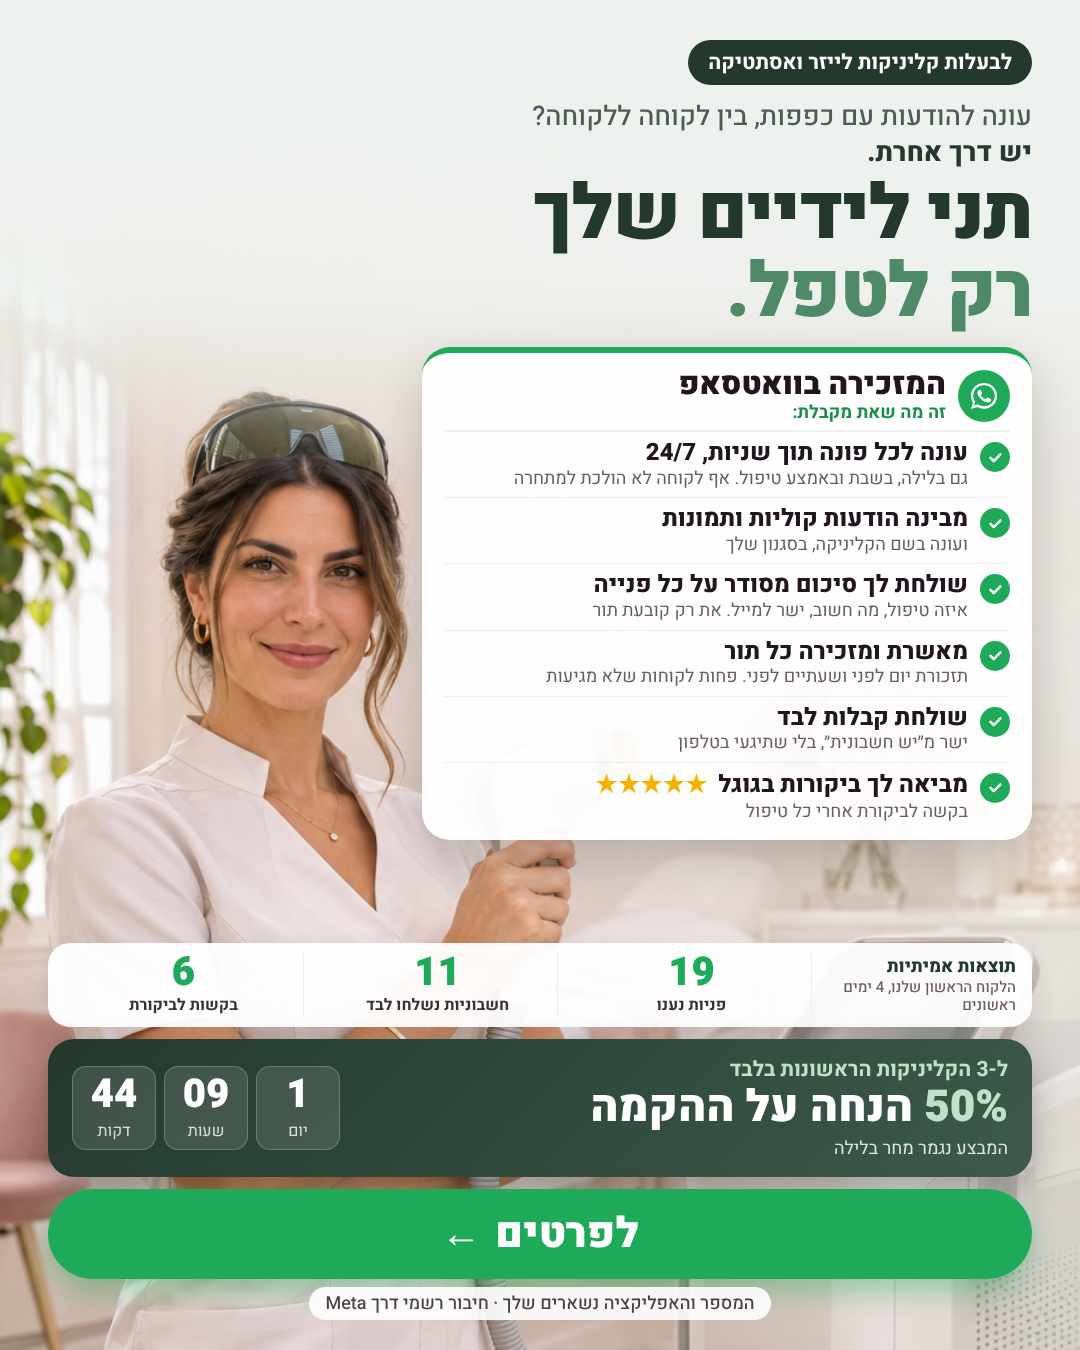
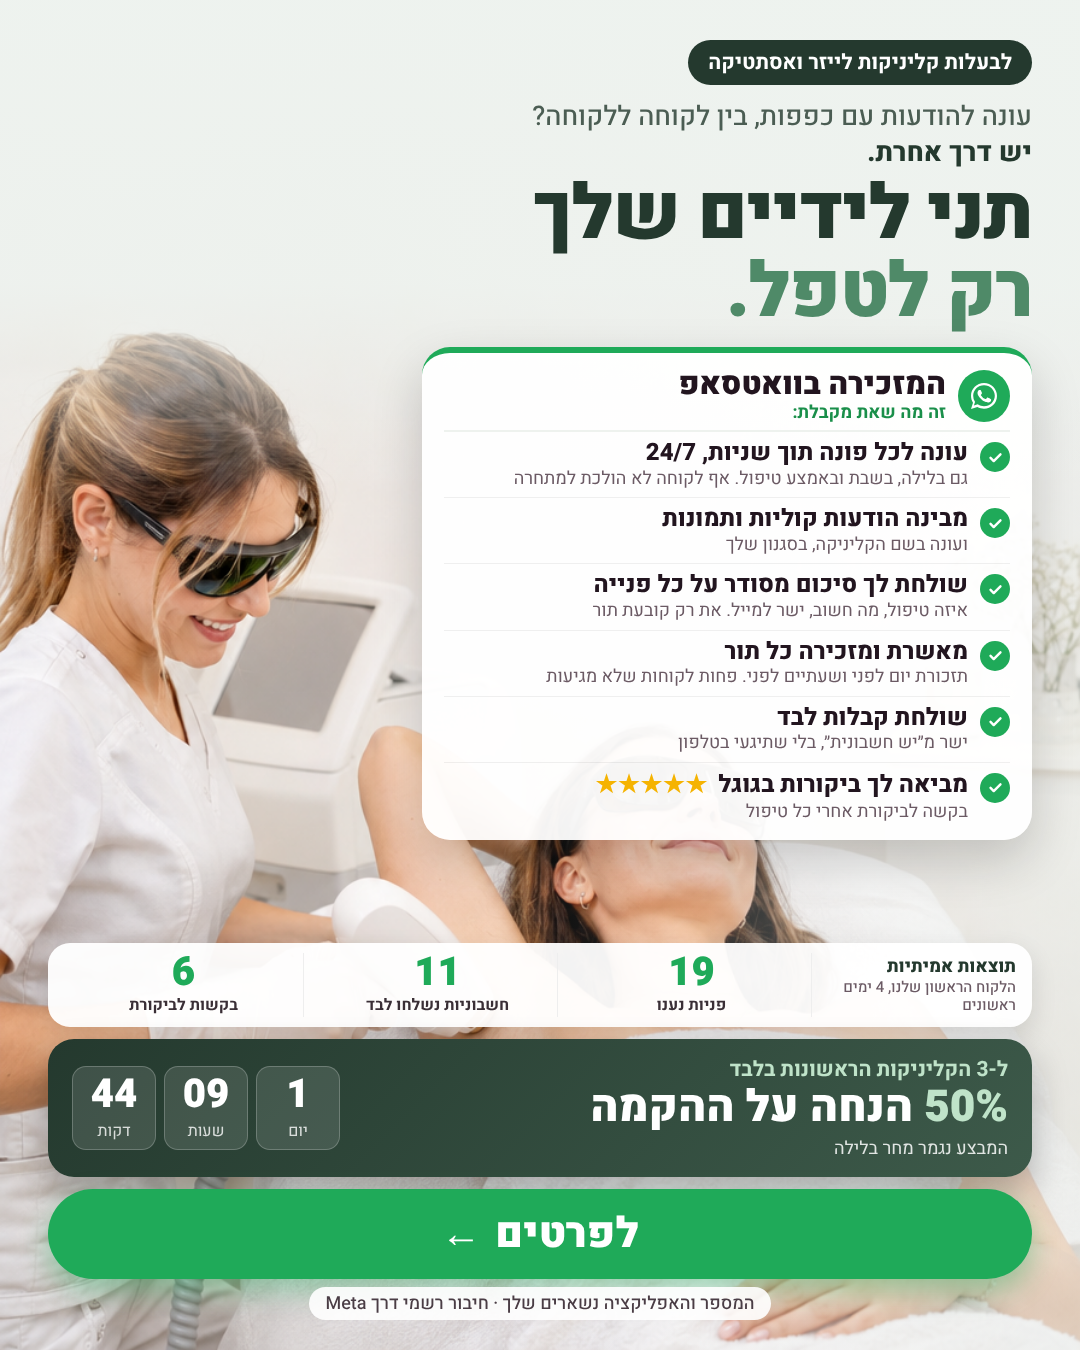
Use realistic laser-treatment photos as background for all 7 final ads
Claude-Session: https://claude.ai/code/session_01Vz5R2a35xK2QPkZWBdYNHH

diff --git a/ads/source/v3.html b/ads/source/v3.html
@@ -93,13 +93,13 @@ const T={
  white:['#ffffff','#1f2a36','#34465a','#2f8fd8','#bfe2ff','#4d5a66'],
 };
 const A={
- 1:{img:'bg.png',th:'plum',hook:'מטפלת, עונה להודעות, שולחת קבלות ורודפת אחרי ביקורות.<br><b>ועוד לבד?</b>',h1:'את מטפלת.<br><span>היא</span> דואגת לכל השאר.'},
- 2:{img:'p1.png',th:'cocoa',hook:'הודעה חדשה ב-23:41. את כבר מזמן בבית.<br><b>מי עונה לה?</b>',h1:'את נחה.<br><span>היא</span> עונה.'},
- 3:{img:'p2.png',th:'sage',hook:'עונה להודעות עם כפפות, בין לקוחה ללקוחה?<br><b>יש דרך אחרת.</b>',h1:'תני לידיים שלך<br><span>רק לטפל.</span>'},
- 4:{img:'p3.png',th:'rose',hook:'טיפול ראשון, סדרת טיפולים,<br><b>והחברות שהיא תביא איתה.</b>',h1:'כמה שווה לך<br><span>לקוחה</span> אחת?'},
- 5:{img:'p4.png',th:'gold',hook:'4 ימים, 19 פניות, 11 חשבוניות, 6 בקשות לביקורת.<br><b>בלי להרים טלפון לענות.</b>',h1:'היא ענתה.<br><span>הוא</span> המשיך לעבוד.'},
- 6:{img:'p5.png',th:'lav',cl:1,hook:'כמה זמן ביום הולך לך על וואטסאפ?<br><b>תחשבי רגע.</b>',h1:'שעה ביום<br><span>חוזרת</span> אלייך.'},
- 7:{img:'whiteB.png',th:'white',cl:1,pos:'80% 100%',size:'135% auto',hook:'את מרוכזת בטיפול, והוואטסאפ לא מפסיק לזמזם.<br><b>מי עונה לפונות?</b>',h1:'הלייזר שלך עובד.<br><span>גם הוואטסאפ.</span>'},
+ 1:{img:'L1.png',th:'plum',hook:'מטפלת, עונה להודעות, שולחת קבלות ורודפת אחרי ביקורות.<br><b>ועוד לבד?</b>',h1:'את מטפלת.<br><span>היא</span> דואגת לכל השאר.'},
+ 2:{img:'L4.png',th:'cocoa',hook:'הודעה חדשה ב-23:41. את כבר מזמן בבית.<br><b>מי עונה לה?</b>',h1:'את נחה.<br><span>היא</span> עונה.'},
+ 3:{img:'L2.png',th:'sage',hook:'עונה להודעות עם כפפות, בין לקוחה ללקוחה?<br><b>יש דרך אחרת.</b>',h1:'תני לידיים שלך<br><span>רק לטפל.</span>'},
+ 4:{img:'L3.png',th:'rose',hook:'טיפול ראשון, סדרת טיפולים,<br><b>והחברות שהיא תביא איתה.</b>',h1:'כמה שווה לך<br><span>לקוחה</span> אחת?'},
+ 5:{img:'L5.png',th:'gold',cl:1,hook:'4 ימים, 19 פניות, 11 חשבוניות, 6 בקשות לביקורת.<br><b>בלי להרים טלפון לענות.</b>',h1:'היא ענתה.<br><span>הוא</span> המשיך לעבוד.'},
+ 6:{img:'L6.png',th:'lav',cl:1,hook:'כמה זמן ביום הולך לך על וואטסאפ?<br><b>תחשבי רגע.</b>',h1:'שעה ביום<br><span>חוזרת</span> אלייך.'},
+ 7:{img:'whiteA.png',th:'white',cl:1,hook:'את מרוכזת בטיפול, והוואטסאפ לא מפסיק לזמזם.<br><b>מי עונה לפונות?</b>',h1:'הלייזר שלך עובד.<br><span>גם הוואטסאפ.</span>'},
 };
 const a=A[(location.hash||'#1').slice(1)], t=T[a.th], r=document.documentElement.style;
 const hex=(h,o)=>{const n=parseInt(h.slice(1),16);return `rgba(${n>>16},${n>>8&255},${n&255},${o})`};
